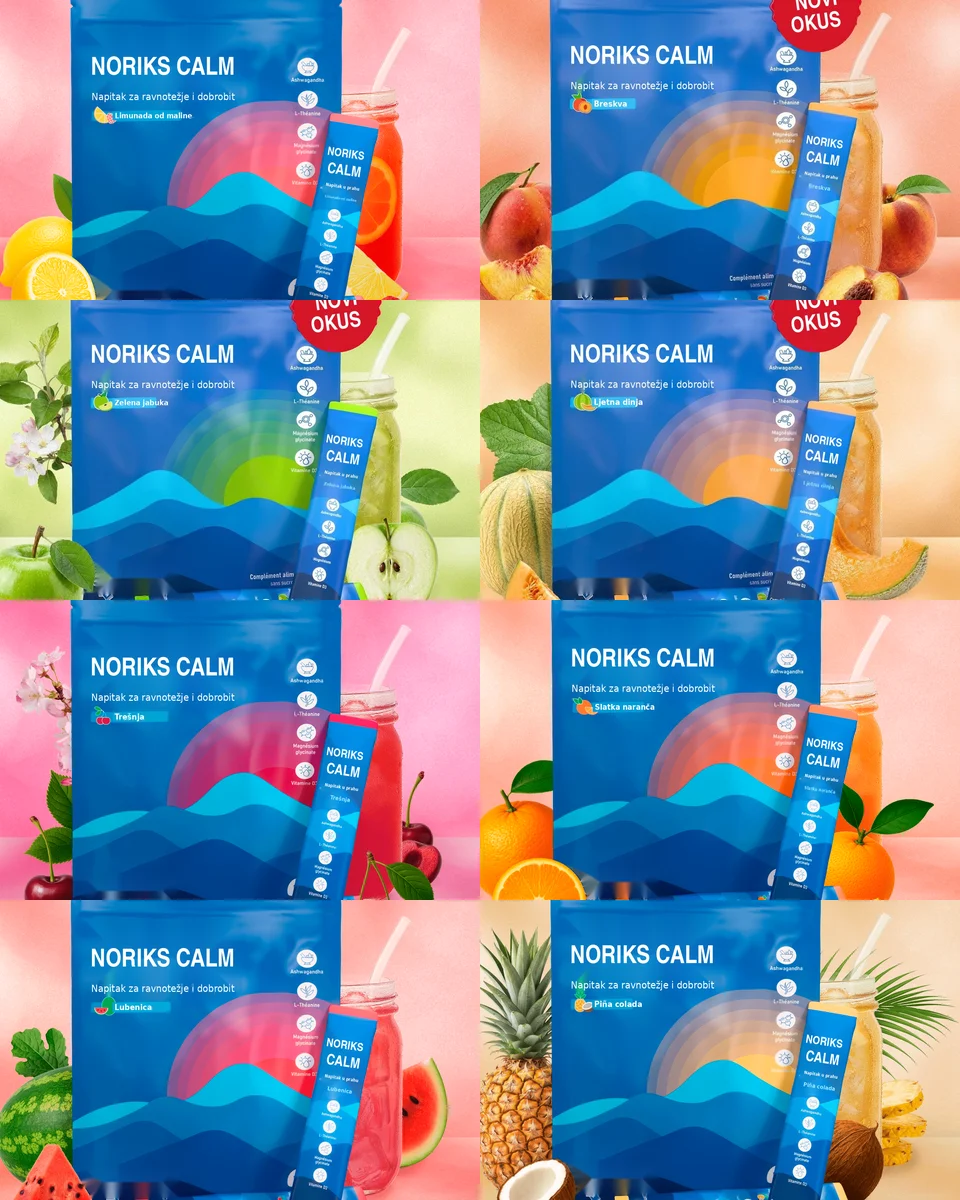
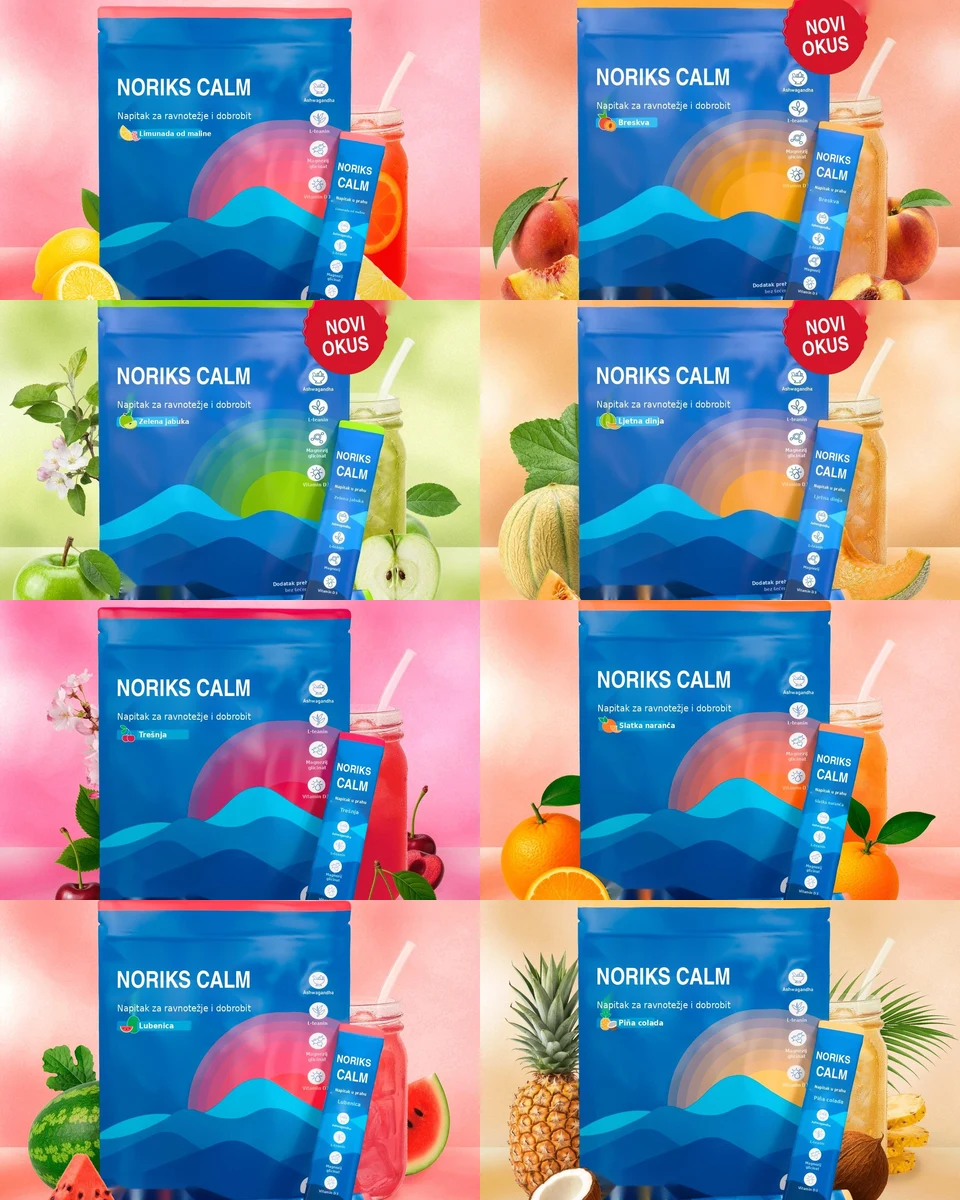
Calm: why slike brez francoscine - okusi sestavljeni iz 8 ze prevedenih packshotov galerije, na sliki kupke vrecka v hrvascini (L-teanin, Magnezij glicinat, Vitamin D3, bez secera, Neto masa 90 g, Dodatak prehrani); verzija ?v= v src vseh why slik, ker je Cloudflare na devHR drzal stare slike s SUPE

diff --git a/wp-content/themes/noriks/template_parts/product-bottom/why-calm.php b/wp-content/themes/noriks/template_parts/product-bottom/why-calm.php
@@ -7,12 +7,13 @@
  */
 if ( ! defined( 'ABSPATH' ) ) { exit; }
 $wdir = get_template_directory_uri() . '/img/calm/';
+$wv   = '?v=20261026b'; // verzija slik - Cloudflare je drzal stare slike s tujo znamko
 ?>
 <div class="wcalm">
 
   <section class="wcalm__s wcalm__s--bg">
     <div class="wcalm__v">
-      <div class="wcalm__media"><video src="<?php echo esc_url( $wdir . 'noriks-calm-priprema.mp4' ); ?>" poster="<?php echo esc_url( $wdir . 'noriks-calm-priprema-poster.jpg' ); ?>" autoplay muted loop playsinline preload="metadata"></video></div>
+      <div class="wcalm__media"><video src="<?php echo esc_url( $wdir . 'noriks-calm-priprema.mp4' . $wv ); ?>" poster="<?php echo esc_url( $wdir . 'noriks-calm-priprema-poster.jpg' . $wv ); ?>" autoplay muted loop playsinline preload="metadata"></video></div>
       <div class="wcalm__tekst">
         <div class="wcalm__kicker">KAKO SE PRIPREMA</div>
         <h2 class="wcalm__h2">1 vrećica. Čaša vode. <em>Gotovo.</em></h2>
@@ -30,7 +31,7 @@ $wdir = get_template_directory_uri() . '/img/calm/';
 
   <section class="wcalm__s">
     <div class="wcalm__v wcalm__v--rev">
-      <div class="wcalm__media"><img src="<?php echo esc_url( $wdir . 'noriks-calm-kupci.webp' ); ?>" alt="Kupac priprema napitak NORIKS Calm u čaši vode" loading="lazy" decoding="async"></div>
+      <div class="wcalm__media"><img src="<?php echo esc_url( $wdir . 'noriks-calm-kupci.webp' . $wv ); ?>" alt="Kupac priprema napitak NORIKS Calm u čaši vode" loading="lazy" decoding="async"></div>
       <div class="wcalm__tekst">
         <div class="wcalm__kicker">KUPCI O SVOM RITUALU</div>
         <h2 class="wcalm__h2">Pripremaju ga svaki dan – <em>i ne odustaju</em></h2>
@@ -47,7 +48,7 @@ $wdir = get_template_directory_uri() . '/img/calm/';
 
   <section class="wcalm__s wcalm__s--bg">
     <div class="wcalm__v">
-      <div class="wcalm__media"><img src="<?php echo esc_url( $wdir . 'noriks-calm-ritual.webp' ); ?>" alt="Prah iz vrećice NORIKS Calm ulijeva se u čašu vode" loading="lazy" decoding="async"></div>
+      <div class="wcalm__media"><img src="<?php echo esc_url( $wdir . 'noriks-calm-ritual.webp' . $wv ); ?>" alt="Prah iz vrećice NORIKS Calm ulijeva se u čašu vode" loading="lazy" decoding="async"></div>
       <div class="wcalm__tekst">
         <div class="wcalm__kicker">TRENUTAK SAMO ZA VAS</div>
         <h2 class="wcalm__h2">Dan je pun obaveza. <em>Ova čaša je vaša.</em></h2>
@@ -66,7 +67,7 @@ $wdir = get_template_directory_uri() . '/img/calm/';
 
   <section class="wcalm__s">
     <div class="wcalm__v wcalm__v--rev">
-      <div class="wcalm__media"><img src="<?php echo esc_url( $wdir . 'noriks-calm-vrecice.webp' ); ?>" alt="Pojedinačne vrećice NORIKS Calm s voćem" loading="lazy" decoding="async"></div>
+      <div class="wcalm__media"><img src="<?php echo esc_url( $wdir . 'noriks-calm-vrecice.webp' . $wv ); ?>" alt="Pojedinačne vrećice NORIKS Calm s voćem" loading="lazy" decoding="async"></div>
       <div class="wcalm__tekst">
         <div class="wcalm__kicker">VAŠA RUTINA</div>
         <h2 class="wcalm__h2">Jedna vrećica dnevno, <em>od ponedjeljka do petka</em></h2>
@@ -85,15 +86,15 @@ $wdir = get_template_directory_uri() . '/img/calm/';
 
   <section class="wcalm__s wcalm__s--bg">
     <div class="wcalm__v">
-      <div class="wcalm__media"><img src="<?php echo esc_url( $wdir . 'noriks-calm-ashwagandha.webp' ); ?>" alt="Korijen ashwagandhe" loading="lazy" decoding="async"></div>
+      <div class="wcalm__media"><img src="<?php echo esc_url( $wdir . 'noriks-calm-ashwagandha.webp' . $wv ); ?>" alt="Korijen ashwagandhe" loading="lazy" decoding="async"></div>
       <div class="wcalm__tekst">
         <div class="wcalm__kicker">4 SASTOJKA</div>
         <h2 class="wcalm__h2">Kratak sastav <em>koji možete pročitati</em></h2>
         <p class="wcalm__p">Svaka vrećica sadrži četiri aktivna sastojka u točno navedenim količinama. Nema dugih popisa i nema skrivenih mješavina – samo ono što piše na pakiranju.</p>
         <div class="wcalm__sast">
-          <div><img src="<?php echo esc_url( $wdir . 'noriks-calm-l-teanin.webp' ); ?>" alt="List čaja – izvor L-teanina" loading="lazy" decoding="async"><strong>L-teanin · 400 mg</strong><span>aminokiselina koja se prirodno nalazi u listovima čaja; za razliku od teina, nije stimulans</span></div>
-          <div><img src="<?php echo esc_url( $wdir . 'noriks-calm-magnezij.webp' ); ?>" alt="Kristali magnezija" loading="lazy" decoding="async"><strong>Magnezij · 100 mg</strong><span>u obliku magnezijeva bisglicinata, blagog za probavu</span></div>
-          <div><img src="<?php echo esc_url( $wdir . 'noriks-calm-vitamin-d3.webp' ); ?>" alt="Vitamin D3" loading="lazy" decoding="async"><strong>Vitamin D3 · 1000 IU</strong><span>poznat kao „sunčani vitamin”</span></div>
+          <div><img src="<?php echo esc_url( $wdir . 'noriks-calm-l-teanin.webp' . $wv ); ?>" alt="List čaja – izvor L-teanina" loading="lazy" decoding="async"><strong>L-teanin · 400 mg</strong><span>aminokiselina koja se prirodno nalazi u listovima čaja; za razliku od teina, nije stimulans</span></div>
+          <div><img src="<?php echo esc_url( $wdir . 'noriks-calm-magnezij.webp' . $wv ); ?>" alt="Kristali magnezija" loading="lazy" decoding="async"><strong>Magnezij · 100 mg</strong><span>u obliku magnezijeva bisglicinata, blagog za probavu</span></div>
+          <div><img src="<?php echo esc_url( $wdir . 'noriks-calm-vitamin-d3.webp' . $wv ); ?>" alt="Vitamin D3" loading="lazy" decoding="async"><strong>Vitamin D3 · 1000 IU</strong><span>poznat kao „sunčani vitamin”</span></div>
         </div>
         <p class="wcalm__p"><strong>Ashwagandha · 300 mg</strong> – ekstrakt korijena biljke <em>Withania somnifera</em>, koja se stoljećima koristi u tradiciji ajurvede.</p>
         <p class="wcalm__p">Ostali sastojci: limunska kiselina, prirodna aroma limuna i maline, prah korijena organske cikle, rebaudiozid A (ekstrakt lista stevije). Kod drugih okusa razlikuju se samo arome i ekstrakti.</p>
@@ -104,7 +105,7 @@ $wdir = get_template_directory_uri() . '/img/calm/';
 
   <section class="wcalm__s">
     <div class="wcalm__v wcalm__v--rev">
-      <div class="wcalm__media"><img src="<?php echo esc_url( $wdir . 'noriks-calm-prah.webp' ); ?>" alt="Prah napitka NORIKS Calm" loading="lazy" decoding="async"></div>
+      <div class="wcalm__media"><img src="<?php echo esc_url( $wdir . 'noriks-calm-prah.webp' . $wv ); ?>" alt="Prah napitka NORIKS Calm" loading="lazy" decoding="async"></div>
       <div class="wcalm__tekst">
         <div class="wcalm__kicker">HRANJIVE VRIJEDNOSTI</div>
         <h2 class="wcalm__h2">Što je točno <em>u jednoj vrećici</em></h2>
@@ -132,7 +133,7 @@ $wdir = get_template_directory_uri() . '/img/calm/';
 
   <section class="wcalm__s wcalm__s--bg">
     <div class="wcalm__v">
-      <div class="wcalm__media"><img src="<?php echo esc_url( $wdir . 'noriks-calm-svjedocanstva.webp' ); ?>" alt="Žena za kuhinjskim stolom s pakiranjem NORIKS Calm i čašom napitka" loading="lazy" decoding="async"></div>
+      <div class="wcalm__media"><img src="<?php echo esc_url( $wdir . 'noriks-calm-svjedocanstva.webp' . $wv ); ?>" alt="Žena za kuhinjskim stolom s pakiranjem NORIKS Calm i čašom napitka" loading="lazy" decoding="async"></div>
       <div class="wcalm__tekst">
         <div class="wcalm__kicker">ISKUSTVA KUPACA</div>
         <h2 class="wcalm__h2">Dio dana <em>cijele obitelji</em></h2>
@@ -150,7 +151,7 @@ $wdir = get_template_directory_uri() . '/img/calm/';
 
   <section class="wcalm__s">
     <div class="wcalm__v wcalm__v--rev">
-      <div class="wcalm__media"><img src="<?php echo esc_url( $wdir . 'noriks-calm-okusi.webp' ); ?>" alt="Pakiranja NORIKS Calm u više voćnih okusa" loading="lazy" decoding="async"></div>
+      <div class="wcalm__media"><img src="<?php echo esc_url( $wdir . 'noriks-calm-okusi.webp' . $wv ); ?>" alt="Pakiranja NORIKS Calm u više voćnih okusa" loading="lazy" decoding="async"></div>
       <div class="wcalm__tekst">
         <div class="wcalm__kicker">OKUSI</div>
         <h2 class="wcalm__h2">Osam voćnih okusa – <em>bez dodanog šećera</em></h2>
@@ -168,7 +169,7 @@ $wdir = get_template_directory_uri() . '/img/calm/';
 
   <section class="wcalm__s wcalm__s--bg">
     <div class="wcalm__v">
-      <div class="wcalm__media"><img src="<?php echo esc_url( $wdir . 'noriks-calm-list-caja.webp' ); ?>" alt="Zeleni list čaja" loading="lazy" decoding="async"></div>
+      <div class="wcalm__media"><img src="<?php echo esc_url( $wdir . 'noriks-calm-list-caja.webp' . $wv ); ?>" alt="Zeleni list čaja" loading="lazy" decoding="async"></div>
       <div class="wcalm__tekst">
         <div class="wcalm__kicker">IMATE JOŠ PITANJA?</div>
         <h2 class="wcalm__h2">Česta <em>pitanja</em></h2>
